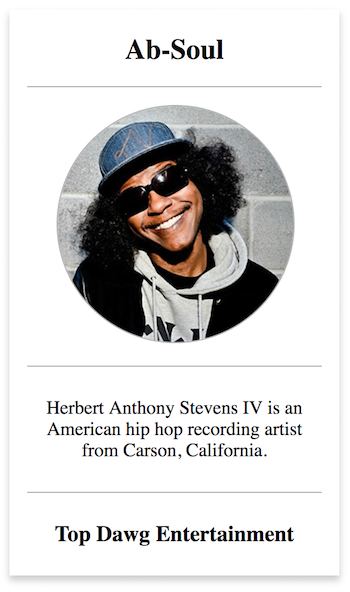
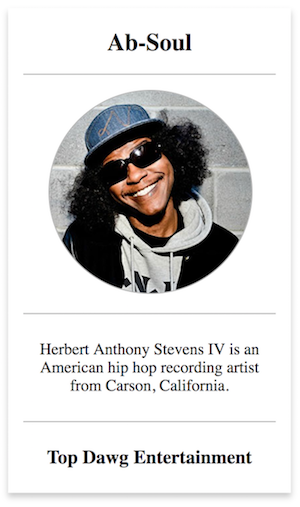
Update README with more examples and screenshots

diff --git a/src/components/CardBody.js b/src/components/CardBody.js
@@ -2,7 +2,6 @@ import React from 'react';
 
 const defaultStyles = {
   paddingTop: '10px',
-  paddingBottom: '10px',
   textAlign: 'center',
   borderTop: '1px solid #b2b2b2',
 };

diff --git a/README.md b/README.md
@@ -6,14 +6,14 @@
 
 A React component card that eliminates the distortion of images and allows for the flexibility of card features.
 
-[build-badge]: https://img.shields.io/travis/user/repo/master.png?style=flat-square
-[build]: https://travis-ci.org/user/repo
+[build-badge]: https://img.shields.io/travis/mehtaculous/react-eazy-card/master.png?style=flat-square
+[build]: https://travis-ci.org/mehtaculous/react-eazy-card
 
 [npm-badge]: https://img.shields.io/npm/v/npm-package.png?style=flat-square
 [npm]: https://www.npmjs.org/package/npm-package
 
-[coveralls-badge]: https://img.shields.io/coveralls/user/repo/master.png?style=flat-square
-[coveralls]: https://coveralls.io/github/user/repo
+[coveralls-badge]: https://img.shields.io/coveralls/mehtaculous/react-eazy-card/master.png?style=flat-square
+[coveralls]: https://coveralls.io/github/mehtaculous/react-eazy-card
 
 ## Installation
 ```
@@ -22,10 +22,32 @@ npm install --save react-eazy-card
 
 ## Usage
 
+![Demo](https://s3-us-west-1.amazonaws.com/react-eazy-card/demo.png)
 ```js
-import React, { Component } from 'react';
-import { render } from 'react-dom';
 import { Card, CardHeader, CardImage, CardBody, CardFooter } from 'react-eazy-card';
+
+class Demo extends Component {
+  render() {
+    return (
+      <div>
+        <Card>
+          <CardHeader>
+            <h2>Ab-Soul</h2>
+          </CardHeader>
+          <CardImage imageSrc="https://s3.amazonaws.com/hiphopdx-production/2013/11/Ab_Soul_304x304.jpg" />
+          <CardBody>
+            <p>
+              Herbert Anthony Stevens IV is an American hip hop recording artist from Carson, California.
+            </p>
+          </CardBody>
+          <CardFooter>
+            <h3>Top Dawg Entertainment</h3>
+          </CardFooter>
+        </Card>
+      </div>
+    );
+  }
+}
 ```
 
 ### `<Card>`
@@ -60,8 +82,83 @@ import { Card, CardHeader, CardImage, CardBody, CardFooter } from 'react-eazy-ca
 | `children` | Function | User can render child elements inside `<CardFooter>` component |
 | `style` | Object | User can add additional styles or override the default ones |
 
-## Demo
-![Eazy Card Demo](https://github.com/mehtaculous/react-eazy-card/blob/master/demo/src/demo.png)
+## Examples
+
+### Card w/ Additional Styles
+![Additional Styles](https://s3-us-west-1.amazonaws.com/react-eazy-card/card_color.png)
+```js
+class Demo extends Component {
+  render() {
+    return (
+      <div>
+        <Card bgColor={'#000'} fontColor={'#fff'}>
+          <CardHeader>
+            <h2>Ab-Soul</h2>
+          </CardHeader>
+          <CardImage imageSrc="https://s3.amazonaws.com/hiphopdx-production/2013/11/Ab_Soul_304x304.jpg" />
+          <CardBody>
+            <p>
+              Herbert Anthony Stevens IV is an American hip hop recording artist from Carson, California.
+            </p>
+          </CardBody>
+          <CardFooter>
+            <h3>Top Dawg Entertainment</h3>
+          </CardFooter>
+        </Card>
+      </div>
+    );
+  }
+}
+```
+
+### Card w/o Header Component
+![No Header](https://s3-us-west-1.amazonaws.com/react-eazy-card/no_header.png)
+```js
+class Demo extends Component {
+  render() {
+    return (
+      <div>
+        <Card>
+          <CardImage imageSrc="https://s3.amazonaws.com/hiphopdx-production/2013/11/Ab_Soul_304x304.jpg" />
+          <CardBody>
+            <p>
+              Herbert Anthony Stevens IV is an American hip hop recording artist from Carson, California.
+            </p>
+          </CardBody>
+          <CardFooter>
+            <h3>Top Dawg Entertainment</h3>
+          </CardFooter>
+        </Card>
+      </div>
+    );
+  }
+}
+```
+
+### Card w/o Body Component
+![No Body](https://s3-us-west-1.amazonaws.com/react-eazy-card/no_body.png)
+```js
+class Demo extends Component {
+  render() {
+    return (
+      <div>
+        <Card>
+          <CardHeader>
+            <h2>Ab-Soul</h2>
+          </CardHeader>
+          <CardImage imageSrc="https://s3.amazonaws.com/hiphopdx-production/2013/11/Ab_Soul_304x304.jpg" />
+          <CardFooter>
+            <h3>Top Dawg Entertainment</h3>
+          </CardFooter>
+        </Card>
+      </div>
+    );
+  }
+}
+```
+
+### Card w/o Footer Component
+![No Footer](https://s3-us-west-1.amazonaws.com/react-eazy-card/no_footer.png)
 ```js
 class Demo extends Component {
   render() {
@@ -77,9 +174,6 @@ class Demo extends Component {
               Herbert Anthony Stevens IV is an American hip hop recording artist from Carson, California.
             </p>
           </CardBody>
-          <CardFooter>
-            <h3>Top Dawg Entertainment</h3>
-          </CardFooter>
         </Card>
       </div>
     );
